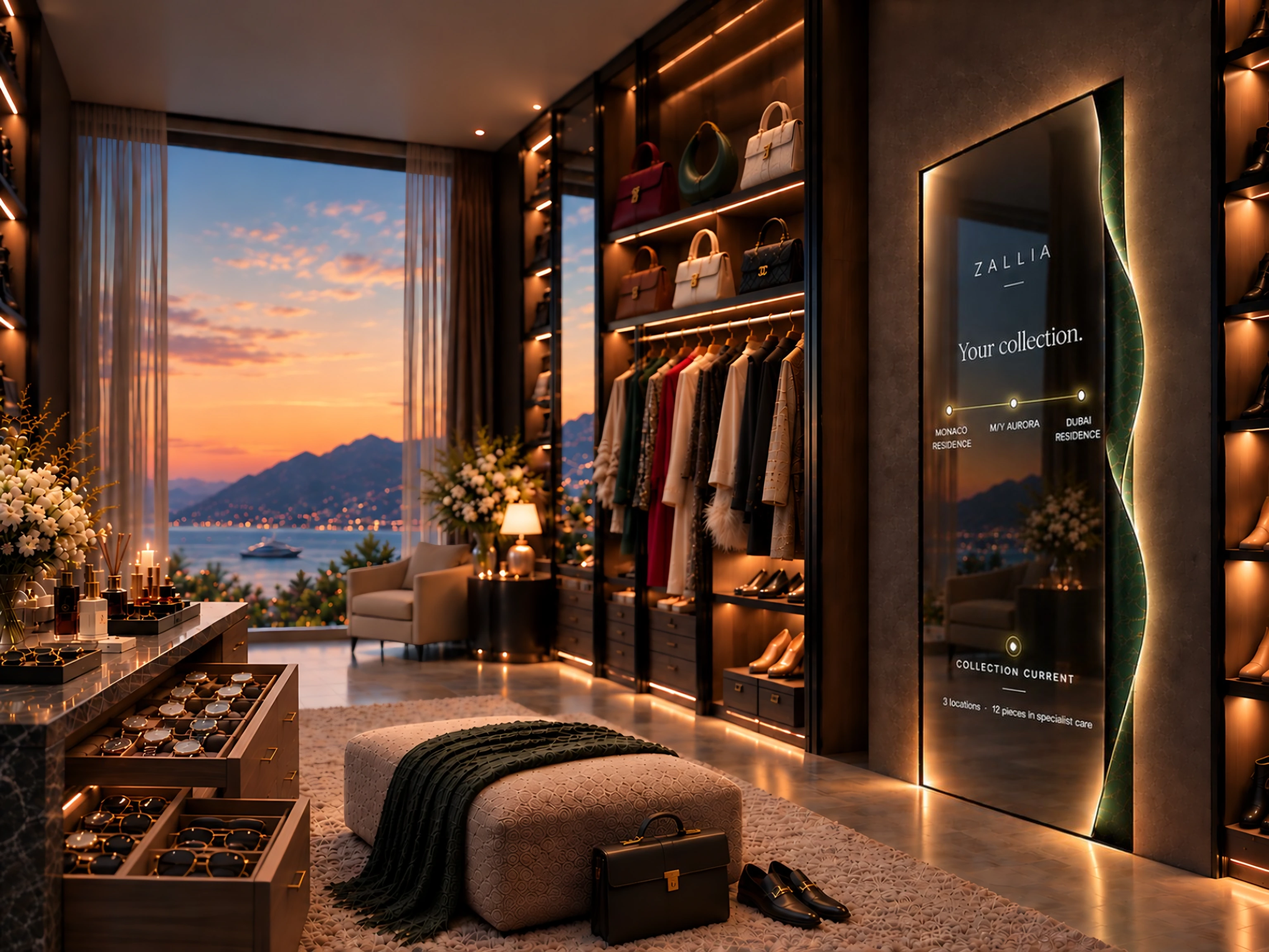
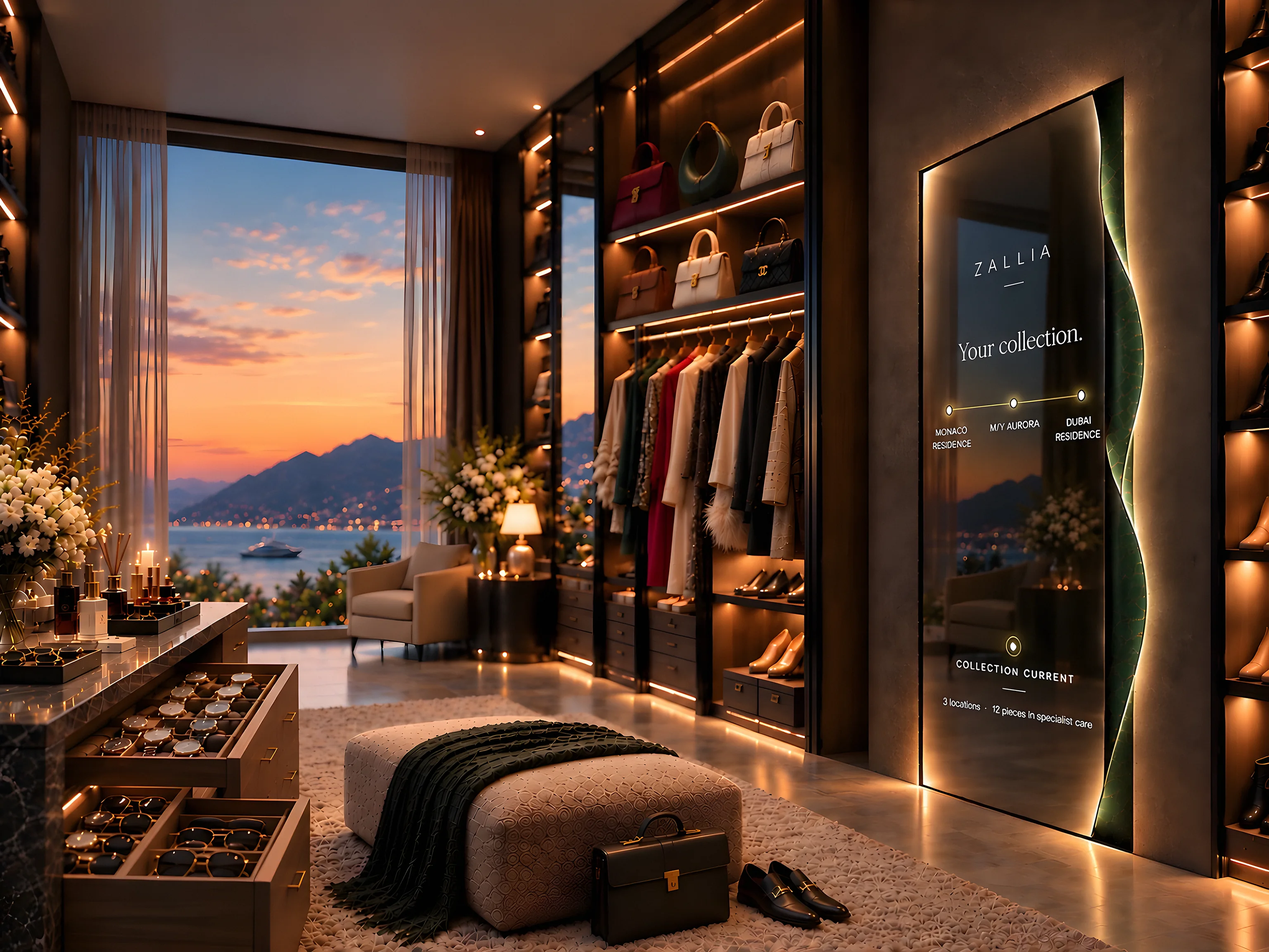
Home hero: photograph rebuilt from an AI-upscaled 3840px master; 3840w added
Claude-Session: https://claude.ai/code/session_01SkxJSMu7uYT2tgvXoR8Fk1

diff --git a/index.html b/index.html
@@ -41,7 +41,7 @@
 <section aria-labelledby="hero-title" class="hero" data-cinematic-hero="">
 <div class="hero-art">
 <div class="hero-architecture">
-<img alt="Zallia integrated into a private dressing room overlooking the coast at sunset. Its reflective owner-facing surface connects a collection across Monaco, a yacht and Dubai, alongside clothing, watches, jewellery and bags." class="hero-photo" decoding="async" fetchpriority="high" height="2304" loading="eager" sizes="(max-width: 800px) 100vw, (max-width: 1100px) 1134px, max(70vw, min(1333px, max(1067px, 125.333333svh)))" src="assets/owner-hero/v2/owner-hero-1536.webp" srcset="assets/owner-hero/v2/owner-hero-640.webp 640w, assets/owner-hero/v2/owner-hero-960.webp 960w, assets/owner-hero/v2/owner-hero-1280.webp 1280w, assets/owner-hero/v2/owner-hero-1536.webp 1536w, assets/owner-hero/v2/owner-hero-2048.webp 2048w, assets/owner-hero/v2/owner-hero-2560.webp 2560w, assets/owner-hero/v2/owner-hero-3072.webp 3072w" width="3072"/>
+<img alt="Zallia integrated into a private dressing room overlooking the coast at sunset. Its reflective owner-facing surface connects a collection across Monaco, a yacht and Dubai, alongside clothing, watches, jewellery and bags." class="hero-photo" decoding="async" fetchpriority="high" height="2880" loading="eager" sizes="(max-width: 800px) 100vw, (max-width: 1100px) 1134px, max(70vw, min(1333px, max(1067px, 125.333333svh)))" src="assets/owner-hero/v2/owner-hero-1536.webp" srcset="assets/owner-hero/v2/owner-hero-640.webp 640w, assets/owner-hero/v2/owner-hero-960.webp 960w, assets/owner-hero/v2/owner-hero-1280.webp 1280w, assets/owner-hero/v2/owner-hero-1536.webp 1536w, assets/owner-hero/v2/owner-hero-2048.webp 2048w, assets/owner-hero/v2/owner-hero-2560.webp 2560w, assets/owner-hero/v2/owner-hero-3072.webp 3072w, assets/owner-hero/v2/owner-hero-3840.webp 3840w" width="3840"/>
 </div>
 </div>
 <div class="hero-copy">
